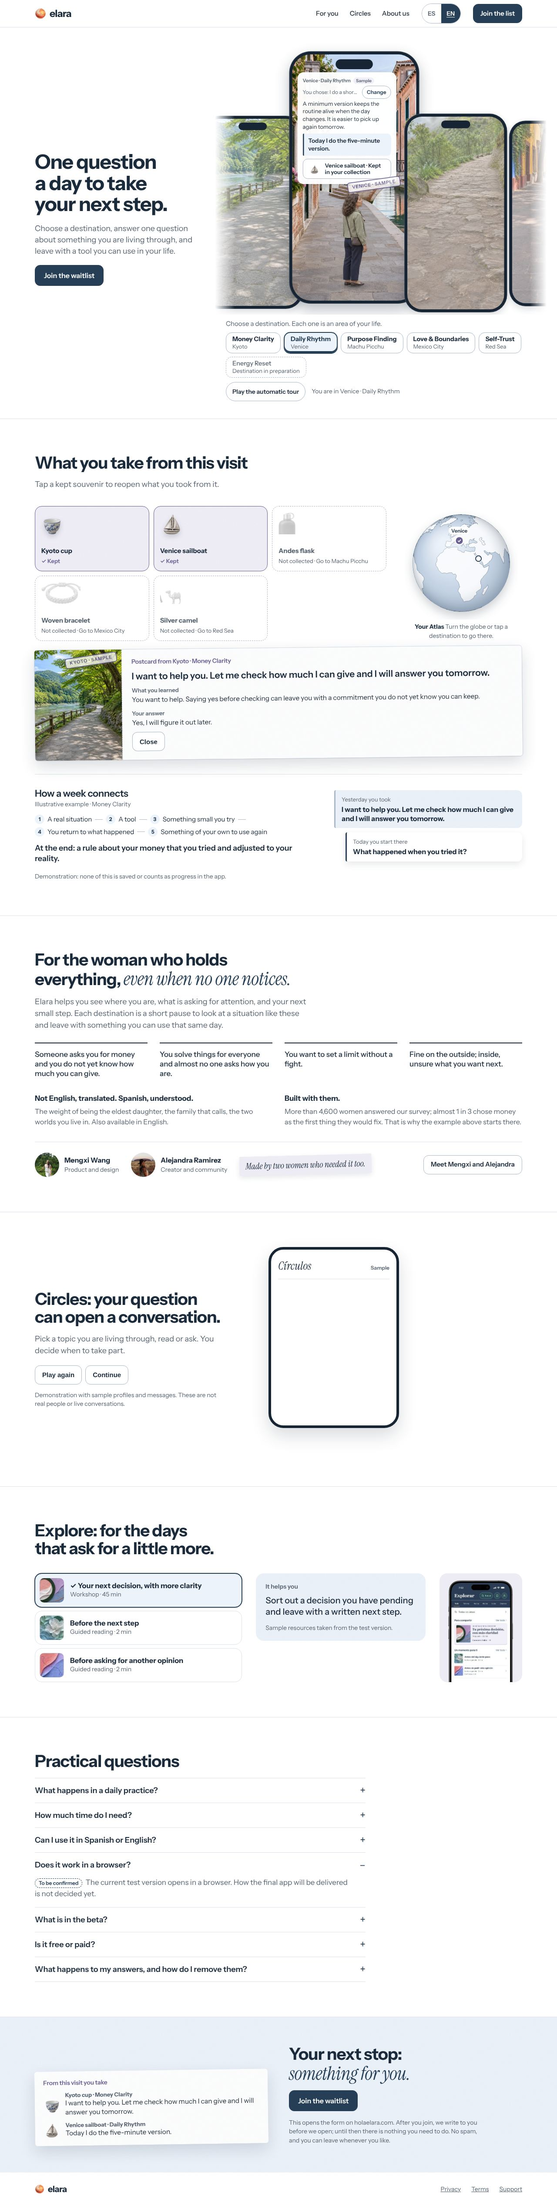
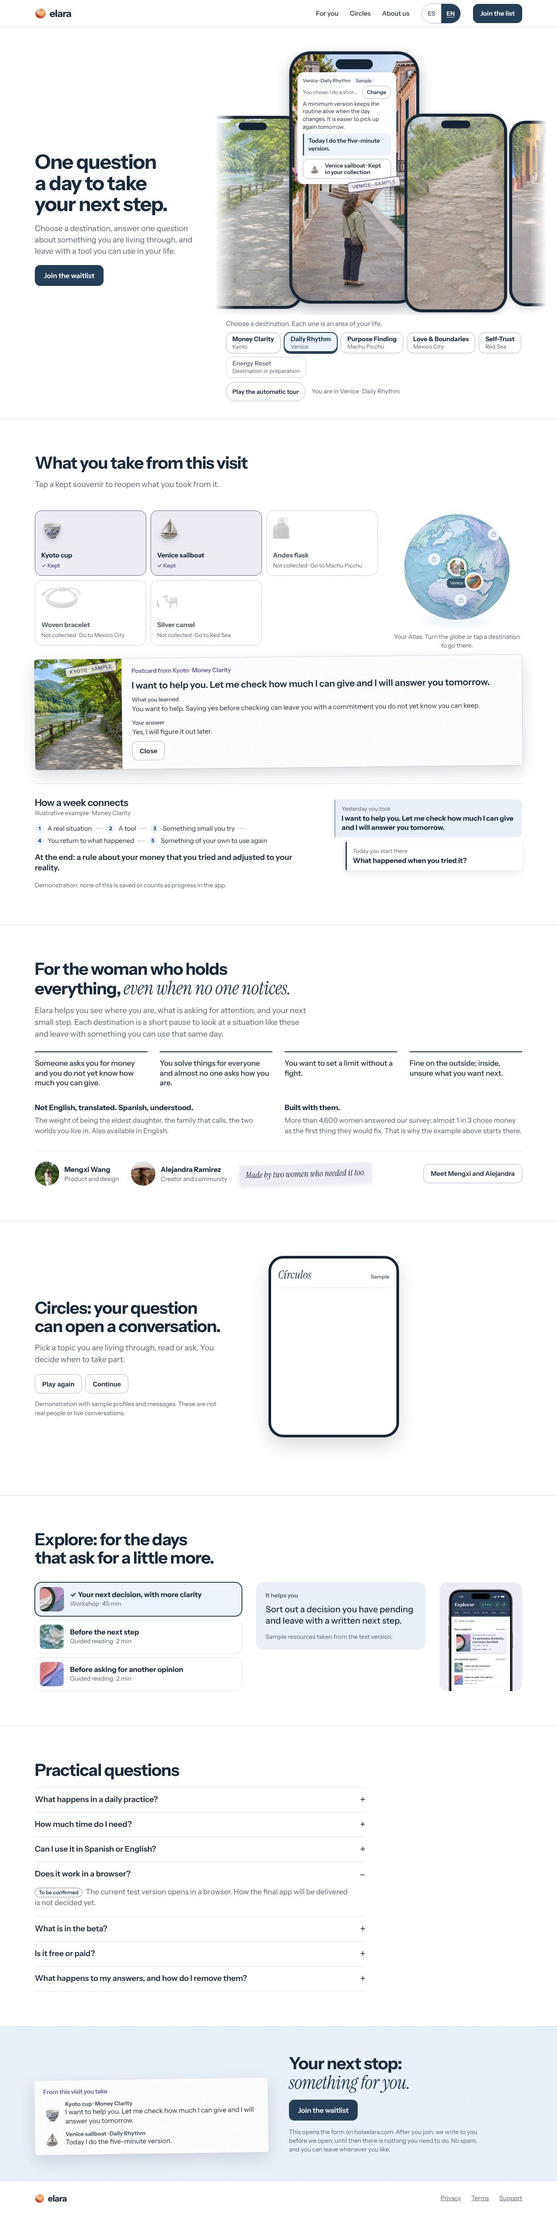
Homepage-v4: Atlas globe ported from the app prototype (shader, paper-earth texture, photo markers, states)
Claude-Session: https://claude.ai/code/session_016pxgwvGNEXtdJWN8f5VJRo

diff --git a/deliverables/scenic-homepage-handoff/homepage-v4/globe.js b/deliverables/scenic-homepage-handoff/homepage-v4/globe.js
@@ -1,68 +1,92 @@
-// A small Atlas globe: real coastlines, orthographic projection, slow spin, drag to turn, tap a pin to travel.
+// Atlas globe, ported from the Elara app prototype (its WebGL shader, paper-earth texture, marker markup and
+// rotation constants are reused as they are). Only the destination list and the homepage wiring differ.
 window.ElaraGlobe = (() => {
-  const canvas = document.querySelector('#globe'); if (!canvas) return { set() {}, onPick() {} };
-  const ctx = canvas.getContext('2d'), reduced = matchMedia('(prefers-reduced-motion: reduce)'), RAD = Math.PI / 180;
-  const PINS = [[135.7, 35.0], [12.3, 45.4], [-72.5, -13.2], [-99.1, 19.4], [38.0, 22.0]];   // Kyoto, Venice, Machu Picchu, Mexico City, Red Sea
-  let lon0 = 135.7, lat0 = 18, want = null, current = 0, collected = [], labels = [], pick = () => {};
-  let visible = false, last = 0, drag = null, hold = 0, size = 260, hit = [];
-  const project = (lon, lat) => {                        // -> [x, y, z] on a unit sphere facing the viewer
-    const l = (lon - lon0) * RAD, p = lat * RAD, p0 = lat0 * RAD, cp = Math.cos(p);
-    const x = cp * Math.sin(l), y0 = Math.sin(p), z0 = cp * Math.cos(l);
-    return [x, y0 * Math.cos(p0) - z0 * Math.sin(p0), y0 * Math.sin(p0) + z0 * Math.cos(p0)];
-  };
-  function draw() {
-    const dpr = Math.min(2, devicePixelRatio || 1), px = Math.round(size * dpr);
-    if (canvas.width !== px) { canvas.width = canvas.height = px; }
-    ctx.setTransform(dpr, 0, 0, dpr, 0, 0); ctx.clearRect(0, 0, size, size);
-    const R = size * .43, cx = size / 2, cy = size / 2;
-    ctx.save(); ctx.shadowColor = 'rgba(22,36,54,.22)'; ctx.shadowBlur = 22; ctx.shadowOffsetY = 10;
-    const sea = ctx.createRadialGradient(cx - R * .35, cy - R * .4, R * .1, cx, cy, R); sea.addColorStop(0, '#e6eef8'); sea.addColorStop(1, '#b3c5da');
-    ctx.fillStyle = sea; ctx.beginPath(); ctx.arc(cx, cy, R, 0, 7); ctx.fill(); ctx.restore();
-    ctx.save(); ctx.beginPath(); ctx.arc(cx, cy, R, 0, 7); ctx.clip();
-    ctx.fillStyle = '#f7f9fc'; ctx.strokeStyle = 'rgba(38,62,86,.5)'; ctx.lineWidth = .8; ctx.lineJoin = 'round';
-    for (const ring of window.ELARA_LAND || []) {
-      let any = false; ctx.beginPath();
-      ring.forEach(([lo, la], i) => { let [x, y, z] = project(lo, la); if (z > 0) any = true; else { const n = Math.hypot(x, y) || 1; x /= n; y /= n; }   // points on the far side slide to the rim
-        const X = cx + x * R, Y = cy - y * R; if (i) ctx.lineTo(X, Y); else ctx.moveTo(X, Y); });
-      if (any) { ctx.closePath(); ctx.fill(); ctx.stroke(); }
-    }
-    const shade = ctx.createRadialGradient(cx - R * .4, cy - R * .45, R * .2, cx, cy, R * 1.02); shade.addColorStop(0, 'rgba(255,255,255,.25)'); shade.addColorStop(.6, 'rgba(255,255,255,0)'); shade.addColorStop(1, 'rgba(22,36,54,.26)');
-    ctx.fillStyle = shade; ctx.fillRect(cx - R, cy - R, R * 2, R * 2); ctx.restore();
-    hit = [];
-    PINS.forEach(([lo, la], i) => {
-      const [x, y, z] = project(lo, la); if (z < .08) return;
-      const X = cx + x * R, Y = cy - y * R, got = collected.includes(i), cur = i === current, r = cur ? 8 : 6.5;
-      ctx.beginPath(); ctx.arc(X, Y, r + 2.5, 0, 7); ctx.fillStyle = '#fff'; ctx.fill();
-      ctx.beginPath(); ctx.arc(X, Y, r, 0, 7); ctx.fillStyle = got ? '#6a5f92' : cur ? '#263e56' : '#fff'; ctx.fill();
-      if (!got && !cur) { ctx.lineWidth = 2; ctx.strokeStyle = '#263e56'; ctx.stroke(); }
-      if (got) { ctx.strokeStyle = '#fff'; ctx.lineWidth = 1.8; ctx.beginPath(); ctx.moveTo(X - 3.2, Y + .2); ctx.lineTo(X - .8, Y + 2.6); ctx.lineTo(X + 3.4, Y - 2.4); ctx.stroke(); }
-      if (labels[i] && (cur || got)) { ctx.font = '600 11.5px "Instrument Sans",sans-serif'; const w = ctx.measureText(labels[i]).width + 12, lx = Math.min(size - w - 2, Math.max(2, X - w / 2)), ly = Y - r - 24;
-        ctx.fillStyle = 'rgba(255,255,255,.95)'; ctx.beginPath(); ctx.roundRect(lx, ly, w, 18, 9); ctx.fill(); ctx.fillStyle = '#1b2b3c'; ctx.fillText(labels[i], lx + 6, ly + 13); }
-      hit.push({ i, X, Y });
-    });
+  const stage = document.querySelector('#globe-stage'); if (!stage) return { set() {}, onPick() {} };
+  const canvas = stage.querySelector('canvas'), reduced = matchMedia('(prefers-reduced-motion: reduce)'), RAD = Math.PI / 180;
+  const LOCK = '<svg width="15" height="15" viewBox="0 0 15 15" fill="none" xmlns="http://www.w3.org/2000/svg" aria-hidden="true"><path d="M5 4.63601C5 3.76031 5.24219 3.1054 5.64323 2.67357C6.03934 2.24705 6.64582 1.9783 7.5014 1.9783C8.35745 1.9783 8.96306 2.24652 9.35823 2.67208C9.75838 3.10299 10 3.75708 10 4.63325V5.99999H5V4.63601ZM4 5.99999V4.63601C4 3.58148 4.29339 2.65754 4.91049 1.99307C5.53252 1.32329 6.42675 0.978302 7.5014 0.978302C8.57583 0.978302 9.46952 1.32233 10.091 1.99162C10.7076 2.65557 11 3.57896 11 4.63325V5.99999H12C12.5523 5.99999 13 6.44771 13 6.99999V13C13 13.5523 12.5523 14 12 14H3C2.44772 14 2 13.5523 2 13V6.99999C2 6.44771 2.44772 5.99999 3 5.99999H4ZM3 6.99999H12V13H3V6.99999Z" fill="currentColor" fill-rule="evenodd" clip-rule="evenodd"/></svg>';
+  const CHECK = '<svg width="15" height="15" viewBox="0 0 15 15" fill="none" xmlns="http://www.w3.org/2000/svg" aria-hidden="true"><path d="M11.4669 3.72684C11.7558 3.91574 11.8369 4.30308 11.648 4.59198L7.39799 11.092C7.29783 11.2452 7.13556 11.3467 6.95402 11.3699C6.77247 11.3931 6.58989 11.3355 6.45446 11.2124L3.70446 8.71241C3.44905 8.48022 3.43023 8.08494 3.66242 7.82953C3.89461 7.57412 4.28989 7.55529 4.5453 7.78749L6.75292 9.79441L10.6018 3.90792C10.7907 3.61902 11.178 3.53795 11.4669 3.72684Z" fill="currentColor" fill-rule="evenodd" clip-rule="evenodd"/></svg>';
+  // Coordinates and place names as in the app. The five homepage destinations, then the app's locked "to discover" markers.
+  const PINS = [
+    { lat: 35, lon: 135, img: 'pin-kyoto.jpg', title: ['Arashiyama, Kioto', 'Arashiyama, Kyoto'], label: ['Kioto', 'Kyoto'] },
+    { lat: 45.4408, lon: 12.3155, img: 'pin-venice.jpg', title: ['Venecia, Italia', 'Venice, Italy'], label: ['Venecia', 'Venice'] },
+    { lat: -13.16, lon: -72.54, img: 'pin-andes.jpg', title: ['Machu Picchu, Perú', 'Machu Picchu, Peru'], label: ['Machu Picchu', 'Machu Picchu'] },
+    { lat: 19.4, lon: -99.1, img: 'pin-mexico.jpg', title: ['Ciudad de México', 'Mexico City'], label: ['Ciudad de México', 'Mexico City'] },
+    { lat: 27.2579, lon: 33.8116, img: 'pin-redsea.jpg', title: ['Costa del mar Rojo, Egipto', 'Red Sea Coast, Egypt'], label: ['Mar Rojo', 'Red Sea'] },
+    ...[[44, 117, 'Asia', 'Asia'], [-4.16, -90.54, 'Sudamérica', 'South America'], [6.7, 16.8, 'África', 'Africa'], [-9.3, 129.7, 'Oceanía', 'Oceania'], [28.4, -117.1, 'Norteamérica', 'North America'], [47.7, -27.1, 'Europa', 'Europe']]
+      .map(([lat, lon, es, en]) => ({ lat, lon, locked: true, title: ['Por descubrir · ' + es, 'To discover · ' + en] })),
+  ];
+  let current = 0, collected = [], lang = 0, pick = () => {}, visible = false, fallback = false;
+  const m = { yaw: PINS[0].lon * RAD, pitch: PINS[0].lat * RAD, targetYaw: PINS[0].lon * RAD, targetPitch: PINS[0].lat * RAD, spinning: !reduced.matches, drag: false, lastX: 0, lastY: 0 };
+  const turnTo = p => { m.targetYaw = m.yaw + Math.atan2(Math.sin(p.lon * RAD - m.yaw), Math.cos(p.lon * RAD - m.yaw)); m.targetPitch = p.lat * RAD; };
+
+  // ---- markers (same markup and classes as the app)
+  const els = PINS.map((p, i) => {
+    const b = document.createElement('button'); b.type = 'button'; b.hidden = true; b.disabled = !!p.locked;
+    b.addEventListener('click', () => { if (p.locked) return; m.spinning = false; turnTo(p); pick(i); });
+    stage.append(b); return b;
+  });
+  function renderPins() {
+    PINS.forEach((p, i) => { const b = els[i], got = collected.includes(i);
+      b.className = 'paper-globe-pin ' + (i === current ? 'is-selected ' : '') + (p.locked ? 'is-locked ' : '') + (got ? 'is-visited' : '');
+      b.setAttribute('aria-label', p.title[lang] + ' · ' + (p.locked ? ['Bloqueado', 'Locked'][lang] : got ? ['Recorrido', 'Visited'][lang] : ['Por explorar', 'To explore'][lang]));
+      b.innerHTML = (p.locked ? LOCK : '<small class="paper-pin-label"></small><img alt="" src="assets/' + p.img + '">') + (got ? '<span>' + CHECK + '</span>' : '');
+      if (!p.locked) b.querySelector('small').textContent = p.label[lang]; });
   }
-  const norm = d => ((d + 540) % 360) - 180;
+
+  // ---- WebGL (shader copied from the app)
+  const gl = canvas.getContext('webgl', { alpha: true, antialias: true, preserveDrawingBuffer: true });
+  let yawLoc, pitchLoc, ready = false, last = 0;
+  const fail = () => { fallback = true; canvas.hidden = true; els.forEach(b => { b.hidden = true; }); const p = document.createElement('p'); p.className = 'paper-globe-fallback'; p.textContent = ['Puedes elegir un destino en la lista.', 'You can choose a destination from the list.'][lang]; stage.append(p); };
+  if (!gl) fail(); else try {
+    const sh = (type, src) => { const s = gl.createShader(type); gl.shaderSource(s, src); gl.compileShader(s); if (!gl.getShaderParameter(s, gl.COMPILE_STATUS)) throw Error('Atlas shader unavailable'); return s; };
+    const vs = sh(gl.VERTEX_SHADER, 'attribute vec2 p;varying vec2 uv;void main(){uv=p;gl_Position=vec4(p,0.,1.);}');
+    const fs = sh(gl.FRAGMENT_SHADER, `precision highp float;varying vec2 uv;uniform sampler2D earth;uniform float yaw;uniform float pitch;
+   void main(){vec2 q=uv*1.15;float r=dot(q,q);if(r>1.){gl_FragColor=vec4(0.);return;}float z=sqrt(1.-r);vec3 n=vec3(q,z);vec3 east=vec3(cos(yaw),0.,-sin(yaw));vec3 north=vec3(-sin(pitch)*sin(yaw),cos(pitch),-sin(pitch)*cos(yaw));vec3 center=vec3(cos(pitch)*sin(yaw),sin(pitch),cos(pitch)*cos(yaw));vec3 w=n.x*east+n.y*north+n.z*center;vec2 t=vec2(atan(w.x,w.z)/6.2831853+.5,asin(clamp(w.y,-1.,1.))/3.14159265+.5);vec3 color=texture2D(earth,t).rgb;float light=.86+.14*max(0.,dot(n,normalize(vec3(-.4,.55,1.))));color*=light;float edge=1.-smoothstep(.99,1.,r);gl_FragColor=vec4(color,edge);}`);
+    const prog = gl.createProgram(); gl.attachShader(prog, vs); gl.attachShader(prog, fs); gl.linkProgram(prog); gl.useProgram(prog);
+    const buf = gl.createBuffer(); gl.bindBuffer(gl.ARRAY_BUFFER, buf); gl.bufferData(gl.ARRAY_BUFFER, new Float32Array([-1, -1, 1, -1, -1, 1, -1, 1, 1, -1, 1, 1]), gl.STATIC_DRAW);
+    const loc = gl.getAttribLocation(prog, 'p'); gl.enableVertexAttribArray(loc); gl.vertexAttribPointer(loc, 2, gl.FLOAT, false, 0, 0);
+    yawLoc = gl.getUniformLocation(prog, 'yaw'); pitchLoc = gl.getUniformLocation(prog, 'pitch');
+    const tex = gl.createTexture(), earth = new Image();
+    earth.onload = () => { gl.bindTexture(gl.TEXTURE_2D, tex); gl.pixelStorei(gl.UNPACK_FLIP_Y_WEBGL, true);
+      gl.texParameteri(gl.TEXTURE_2D, gl.TEXTURE_WRAP_S, gl.CLAMP_TO_EDGE); gl.texParameteri(gl.TEXTURE_2D, gl.TEXTURE_WRAP_T, gl.CLAMP_TO_EDGE);
+      gl.texParameteri(gl.TEXTURE_2D, gl.TEXTURE_MIN_FILTER, gl.LINEAR); gl.texParameteri(gl.TEXTURE_2D, gl.TEXTURE_MAG_FILTER, gl.LINEAR);
+      gl.texImage2D(gl.TEXTURE_2D, 0, gl.RGB, gl.RGB, gl.UNSIGNED_BYTE, earth); gl.uniform1i(gl.getUniformLocation(prog, 'earth'), 0);
+      canvas.dataset.ready = 'true'; ready = true; draw(); requestAnimationFrame(frame); };
+    earth.onerror = fail; earth.src = 'assets/paper-earth.jpg';
+  } catch (e) { fail(); }
+  function draw() {
+    if (!ready || fallback) return;
+    const px = Math.round(canvas.clientWidth * Math.min(devicePixelRatio || 1, 2));
+    if (px && canvas.width !== px) { canvas.width = px; canvas.height = px; gl.viewport(0, 0, px, px); }
+    gl.uniform1f(yawLoc, m.yaw); gl.uniform1f(pitchLoc, m.pitch); gl.drawArrays(gl.TRIANGLES, 0, 6);
+    canvas.dataset.longitude = (m.yaw / RAD).toFixed(1); canvas.dataset.rotating = String(m.spinning && !m.drag);
+    PINS.forEach((p, i) => { const b = els[i], la = p.lat * RAD, lo = p.lon * RAD - m.yaw;
+      const x = Math.cos(la) * Math.sin(lo), y = Math.sin(la) * Math.cos(m.pitch) - Math.cos(la) * Math.cos(lo) * Math.sin(m.pitch);
+      b.hidden = Math.sin(la) * Math.sin(m.pitch) + Math.cos(la) * Math.cos(lo) * Math.cos(m.pitch) < .12;
+      b.style.left = 50 + x / 1.15 * 50 + '%'; b.style.top = 50 - y / 1.15 * 50 + '%'; });
+  }
   function frame(now) {
     requestAnimationFrame(frame);
-    const dt = Math.min(.1, (now - last) / 1000); last = now;
-    if (!visible || document.hidden || drag) return;
-    if (want !== null) { const d = norm(want - lon0); lon0 += d * Math.min(1, dt * 3); if (Math.abs(d) < .3) { lon0 = want; want = null; hold = 3; } draw(); return; }
-    if (reduced.matches) return;
-    if (hold > 0) { hold -= dt; return; }
-    lon0 = norm(lon0 + dt * 7); draw();                  // slow idle spin
+    const dt = Math.min(.05, (now - (last || now)) / 1000); last = now;
+    if (!visible || document.hidden) return;             // homepage addition: rest while off-screen or in a hidden tab
+    if (m.spinning && !m.drag && !reduced.matches) m.targetYaw += dt * .055;
+    const k = reduced.matches ? 1 : .1;
+    m.yaw += (m.targetYaw - m.yaw) * k; m.pitch += (m.targetPitch - m.pitch) * k; draw();
   }
-  const local = e => { const r = canvas.getBoundingClientRect(); return [(e.clientX - r.left) * size / r.width, (e.clientY - r.top) * size / r.height]; };
-  canvas.addEventListener('pointerdown', e => { drag = { x: e.clientX, lon: lon0, moved: false }; canvas.setPointerCapture(e.pointerId); });
-  canvas.addEventListener('pointermove', e => { if (!drag) return; const dx = e.clientX - drag.x; if (Math.abs(dx) > 4) drag.moved = true; if (drag.moved) { lon0 = norm(drag.lon - dx * .5); want = null; draw(); } });
-  canvas.addEventListener('pointerup', e => { const was = drag; drag = null; hold = 4; if (was && !was.moved) { const [x, y] = local(e), h = hit.find(p => Math.hypot(p.X - x, p.Y - y) < 18); if (h) pick(h.i); } });
-  canvas.addEventListener('pointercancel', () => { drag = null; });
-  new IntersectionObserver(es => { visible = es[0].isIntersecting; last = performance.now(); if (visible) draw(); }).observe(canvas);
-  new ResizeObserver(() => { size = canvas.clientWidth || 260; draw(); }).observe(canvas);
-  requestAnimationFrame(frame);
+  stage.addEventListener('focusin', () => { m.spinning = false; });
+  stage.addEventListener('pointerdown', e => { m.spinning = false; if (e.target.closest('button')) return; m.drag = true; m.lastX = e.clientX; m.lastY = e.clientY; stage.setPointerCapture(e.pointerId); });
+  stage.addEventListener('pointermove', e => { if (!m.drag) return; m.targetYaw -= (e.clientX - m.lastX) * .009; m.targetPitch = Math.max(-1.1, Math.min(1.1, m.targetPitch + (e.clientY - m.lastY) * .006)); m.lastX = e.clientX; m.lastY = e.clientY; });
+  stage.addEventListener('pointerup', () => { m.drag = false; }); stage.addEventListener('pointercancel', () => { m.drag = false; });
+  canvas.addEventListener('keydown', e => { if (!['ArrowLeft', 'ArrowRight', 'ArrowUp', 'ArrowDown', 'Home', ' '].includes(e.key)) return; e.preventDefault(); const was = m.spinning; m.spinning = false;
+    if (e.key === 'Home') turnTo(PINS[current]); else if (e.key === ' ') m.spinning = !was; else if (e.key === 'ArrowLeft') m.targetYaw -= .18; else if (e.key === 'ArrowRight') m.targetYaw += .18;
+    else m.targetPitch = Math.max(-1.1, Math.min(1.1, m.targetPitch + (e.key === 'ArrowUp' ? .12 : -.12))); });
+  new IntersectionObserver(es => { visible = es[0].isIntersecting; last = 0; }).observe(stage);
+  renderPins();
   return {
-    set(o) { if ('labels' in o) labels = o.labels; if ('collected' in o) collected = o.collected;
-      if ('current' in o && o.current !== current) { current = o.current; want = PINS[current][0]; if (reduced.matches) { lon0 = want; want = null; } }
-      draw(); },
-    onPick(f) { pick = f; }, get lon() { return lon0; }, get spinning() { return visible && !document.hidden && !reduced.matches; },
+    set(o) { if ('lang' in o) { lang = o.lang === 'en' ? 1 : 0; canvas.setAttribute('aria-label', ['Globo de papel interactivo. Flechas para girar, espacio para pausar.', 'Interactive paper globe. Arrow keys rotate, space pauses.'][lang]); }
+      if ('collected' in o) collected = o.collected;
+      if ('current' in o && o.current !== current) { current = o.current; m.spinning = false; turnTo(PINS[current]); }
+      renderPins(); draw(); },
+    onPick(f) { pick = f; }, get lon() { return m.yaw / RAD; }, get spinning() { return m.spinning; }, state: m,
   };
 })();

diff --git a/deliverables/scenic-homepage-handoff/homepage-v4/page.css b/deliverables/scenic-homepage-handoff/homepage-v4/page.css
@@ -127,10 +127,28 @@ h3{font-size:19px;line-height:1.25;font-weight:600;letter-spacing:-.01em;color:v
 
 /* Collection strip: real state, kept and not kept are told apart by text and shape as well as colour */
 .tab{font-size:14px;font-weight:600;color:var(--muted)}
-.colgrid{display:grid;grid-template-columns:minmax(0,1fr) 280px;gap:32px;align-items:center}
-.atlas-live{display:grid;justify-items:center;gap:6px;text-align:center;font-size:14px;color:var(--muted)}
-.atlas-live canvas{width:260px;height:260px;max-width:100%;cursor:grab;touch-action:pan-y}
-.atlas-live b{color:var(--head)}
+.colgrid{display:grid;grid-template-columns:minmax(0,1fr) 300px;gap:32px;align-items:center}
+.atlas-live{display:grid;justify-items:center;gap:10px;text-align:center}
+/* Atlas globe: marker and stage styles copied from the app prototype, colours included. Not part of the homepage palette. */
+.paper-globe-stage{aspect-ratio:1;touch-action:none;isolation:isolate;width:min(280px,100%);margin:0 auto;position:relative}
+.paper-globe-stage:after{content:"";filter:blur(8px);z-index:-1;background:#88b6ca30;border-radius:50%;height:7%;position:absolute;bottom:2%;left:22%;right:22%}
+.paper-globe-stage canvas{outline-offset:-12px;width:100%;height:100%;display:block;cursor:grab}
+.paper-globe-pin{background:#fff;border:2px solid #fff;border-radius:50%;width:42px;height:42px;padding:2px;position:absolute;transform:translate(-50%,-50%);box-shadow:0 2px 7px #35597344;cursor:pointer}
+.paper-globe-pin.is-selected{outline-offset:3px;outline:2px solid #5c8c82}
+.paper-globe-pin img{object-fit:cover;border-radius:50%;width:100%;height:100%;display:block}
+.paper-globe-pin span{background:#729d8b;border:1px solid #fff;border-radius:50%;width:8px;height:8px;position:absolute;bottom:-1px;right:-1px}
+.paper-globe-pin[hidden]{display:none}
+.paper-globe-pin.is-locked{color:#768fa5;cursor:default;background:#f2f6f9e8;border:1px solid #fff;width:28px;height:28px;padding:5px;box-shadow:0 2px 4px #496b7e25}
+.paper-globe-pin.is-locked>svg{width:13px;height:13px;margin:auto;display:block}
+.paper-globe-pin.is-visited>span{color:#fff;background:#5d8a73;place-items:center;width:17px;height:17px;display:grid;bottom:-3px;right:-3px}
+.paper-globe-pin.is-visited>span>svg{width:11px;height:11px}
+.paper-globe-pin .paper-pin-label{color:#36546a;white-space:normal;text-align:center;pointer-events:none;background:#fffffff2;border-radius:8px;width:max-content;max-width:104px;padding:5px 8px;font-size:10px;line-height:1.25;display:block;position:absolute;top:calc(100% + 7px);left:50%;transform:translate(-50%);box-shadow:0 2px 8px #23445218}
+.paper-globe-pin.is-selected .paper-pin-label{color:#fff;background:#36556b}
+.paper-globe-pin:not(.is-selected) .paper-pin-label{visibility:hidden}
+.paper-globe-pin:hover .paper-pin-label,.paper-globe-pin:focus-visible .paper-pin-label{visibility:visible}
+.paper-globe-pin:focus-visible{border-radius:50%}
+.paper-globe-pin:not(.is-locked)::after{content:"";position:absolute;inset:-6px;border-radius:50%}   /* larger tap area, same look */
+.paper-globe-fallback{padding:40px 10px;font-size:14px;color:var(--muted)}
 .strip{display:grid;grid-template-columns:repeat(3,minmax(0,1fr));gap:10px;margin:0;padding:0;list-style:none}
 .slot{display:flex;flex-direction:column;align-items:flex-start;gap:6px;width:100%;height:100%;min-height:150px;padding:14px;border:1px dashed var(--edge);border-radius:16px;background:#fff;font:inherit;font-size:13px;line-height:1.3;text-align:left;color:var(--muted);cursor:pointer}
 .slot img{width:auto;height:50px;margin-bottom:auto;opacity:.28;filter:grayscale(1)}

diff --git a/deliverables/scenic-homepage-handoff/homepage-v4/app.js b/deliverables/scenic-homepage-handoff/homepage-v4/app.js
@@ -73,7 +73,7 @@
     'recap.top': ['Volver a los destinos', 'Back to the destinations'],
     'tour.pause': ['Pausar el recorrido', 'Pause the tour'], 'tour.play': ['Ver el recorrido automático', 'Play the automatic tour'],
     'st.walk': ['Camina hacia', 'Walking to'], 'st.at': ['Estás en', 'You are in'],
-    'atlas.h': ['Tu Atlas', 'Your Atlas'], 'atlas.p': ['Gira el globo o toca un destino para ir.', 'Turn the globe or tap a destination to go there.'],
+    'atlas.p': ['Tu Atlas. Gira el globo o toca un destino para ir.', 'Your Atlas. Turn the globe or tap a destination to go there.'],
     'soon': ['Destino en preparación', 'Destination in preparation'],
   };
   let lang = 'es';
@@ -214,7 +214,7 @@
           el('span', {}, [el('b', { textContent: `${L(d.item)} · ${L(d.area)}` }), takeaway(d).ph])])))]
       : [el('p', { textContent: t('recap.none') }), el('a', { href: '#top', className: 'recap-link', textContent: t('recap.top') })]));
   }
-  function renderGlobe() { window.ElaraGlobe.set({ current: state.dest, collected: state.collected.map(k => DEST.findIndex(d => d.key === k)), labels: DEST.map(d => L(d.place)) }); }
+  function renderGlobe() { window.ElaraGlobe.set({ lang, current: state.dest, collected: state.collected.map(k => DEST.findIndex(d => d.key === k)) }); }
   function renderTour() { const b = $('#tour'); b.hidden = Stage.still(); b.textContent = t(autoplay ? 'tour.pause' : 'tour.play'); b.setAttribute('aria-pressed', String(!autoplay)); }
   function renderStatus() { $('#status').textContent = `${t(arrived ? 'st.at' : 'st.walk')} ${L(DEST[state.dest].place)} · ${L(DEST[state.dest].area)}`; }
   function renderAll(focusRole) {

diff --git a/deliverables/scenic-homepage-handoff/homepage-v4/index.html b/deliverables/scenic-homepage-handoff/homepage-v4/index.html
@@ -56,10 +56,10 @@
   </div>
   <div class="colgrid">
     <ul class="strip" id="strip" aria-label="Colección de ejemplo"></ul>
-    <figure class="atlas-live">
-      <canvas id="globe" width="260" height="260" role="img" aria-label="Globo del Atlas con los cinco destinos"></canvas>
-      <figcaption><b data-i18n="atlas.h">Tu Atlas</b> <span data-i18n="atlas.p">Gira el globo o toca un destino para ir.</span></figcaption>
-    </figure>
+    <div class="atlas-live">
+      <div class="paper-globe-stage" id="globe-stage" data-scroll-drag="ignore"><canvas tabindex="0" aria-label="Globo de papel interactivo. Flechas para girar, espacio para pausar."></canvas></div>
+      <p class="fine" data-i18n="atlas.p">Tu Atlas. Gira el globo o toca un destino para ir.</p>
+    </div>
   </div>
   <article class="postcard" id="postcard" hidden tabindex="-1" aria-labelledby="pc-title"></article>
   <div class="week">
@@ -181,7 +181,6 @@
   <a class="brand" href="#top"><img src="assets/orb.png" alt="" width="22" height="22" loading="lazy">elara</a>
   <nav aria-label="Legal"><a data-privacy href="https://holaelara.com/privacidad" data-i18n="ft.privacy">Privacidad</a><a href="https://holaelara.com/terms-and-conditions" data-i18n="ft.terms">Términos</a><a href="https://holaelara.com/support" data-i18n="ft.support">Soporte</a></nav>
 </footer>
-<script defer src="land.js"></script>
 <script defer src="stage.js"></script>
 <script defer src="globe.js"></script>
 <script defer src="app.js"></script>

diff --git a/deliverables/scenic-homepage-handoff/homepage-v4/stage.js b/deliverables/scenic-homepage-handoff/homepage-v4/stage.js
@@ -130,7 +130,7 @@ window.ElaraStage = (() => {
   }
   function layout() {
     const stage = $('#stage'), w = stage.clientWidth;
-    scale = stacked.matches ? (w <= 520 ? clamp(w / 390, .78, 1) : .92) : clamp(w / 400, .6, 1);     // the active phone stays full size on a phone, so its text stays readable
+    scale = stacked.matches ? clamp(w / 390, .78, 1) : clamp(w / 400, .6, 1);     // the active phone stays full size on a phone, so its text stays readable
     viewW = w / scale; stage.style.height = HT * scale + 'px'; draw();
   }
   function frame(now) {

diff --git a/deliverables/scenic-homepage-handoff/homepage-v4/NOTES.md b/deliverables/scenic-homepage-handoff/homepage-v4/NOTES.md
@@ -3,7 +3,7 @@
 Local preview only. Not deployed. `homepage-v2/` and `homepage-v3/` are the preserved earlier versions.
 
 Run: open `index.html`, or `python3 -m http.server 4194 --bind 127.0.0.1` in this folder.
-Files: `index.html`, `nosotras.html`, `page.css`, `stage.js` (traveler and phones), `globe.js` + `land.js` (Atlas globe), `app.js` (state, copy in es/en, every other interaction), `assets/`.
+Files: `index.html`, `nosotras.html`, `page.css`, `stage.js` (traveler and phones), `globe.js` (Atlas globe), `app.js` (state, copy in es/en, every other interaction), `assets/`.
 
 ## Palette (corrected)
 Reference: the app's Explore header and tab bar, `#263E56`.
@@ -52,5 +52,6 @@ Recuperar tu energía has no destination, plate or souvenir: shown as "Destino e
 
 ## Other limits
 - Explore capture is 303 px wide and soft; its thumbnails are crops of it.
-- Coastlines on the globe are Natural Earth 1:110m (public domain), simplified.
+- Atlas globe: ported from the app prototype (its WebGL shader, `paper-earth.jpg` texture, marker markup and CSS, rotation speed 0.055 rad/s, drag factors, keyboard keys). Marker photos are the app's scene images. Its marker colours (green selected ring and visited badge) are the app's and are deliberately not recoloured to the homepage palette. The homepage shows its five destinations plus the app's six locked "Por descubrir" markers; it adds a pause while off-screen. Touching the globe does not scroll the page, as in the app.
+- The app prototype (reachable at its chatgpt.site URL) shows three destinations per area, including energy (Arrecife, Puerto de Sídney, Milford Sound) and rhythm starting in Lisboa. The homepage mapping and practice copy were not re-aligned to it in this pass.
 - Tested in headless Chromium at 390, 768 and 1280. Not tested on a real iPhone or Safari.
